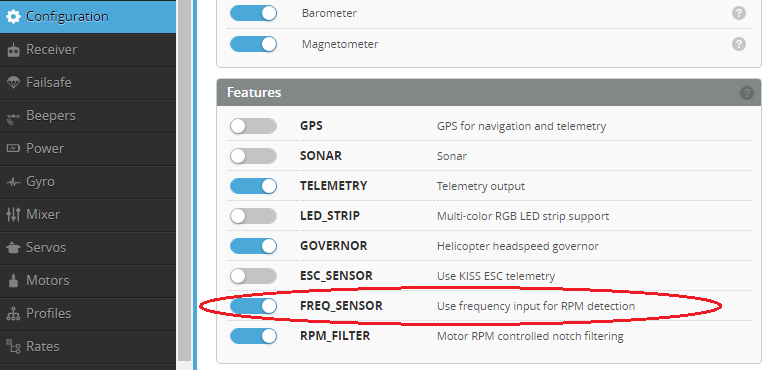
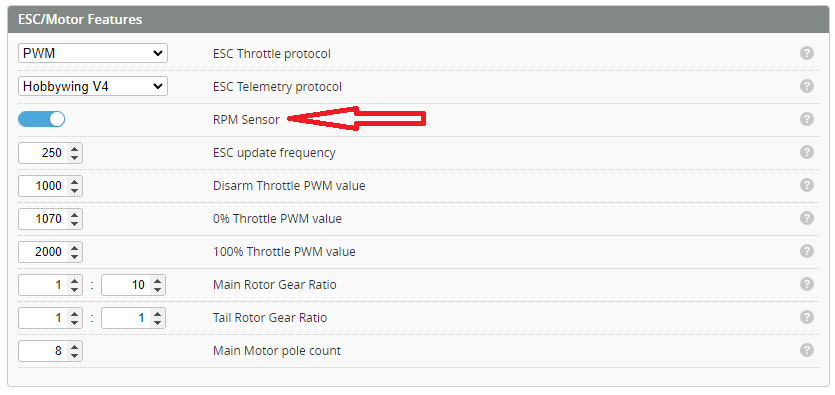
modified:   docs/Tutorial-Setup/Rpm-Measurement.md 	modified:   docs/Tutorial-Setup/img/frequency_2.png

diff --git a/docs/Tutorial-Setup/Rpm-Measurement.md b/docs/Tutorial-Setup/Rpm-Measurement.md
@@ -53,7 +53,7 @@ timer A09 AF1 # Freq - pin A09: TIM1 CH2 (AF1)
 dma pin A09 0 # Freq - 0: DMA2 Stream 6 Channel 0
 ```
 
-Then the frequency sensor can be turned ON with the feature flag located on the ***Configuration*** tab.
+Then the frequency sensor can be turned ON with the feature flag located on the [***Motors***](./Motor-and-Esc.md#pwm-protocol) tab.
 
 ![frequency_2](./img/frequency_2.png)
 
@@ -72,4 +72,4 @@ Bidirectional DSHOT is fully supported from firmware version 32.7.0 onward. ESCs
 BLHeli_S ESCs do not support Bidirectional DSHOT. In order to access this functionality with a BLheli_S ESC the firmware must be upgraded to Bluejay. Bluejay is an open source firmware for BLheli_S ESCs which supports Bidirectional DSHOT, see [BlueJay](https://github.com/mathiasvr/bluejay). This firmware has been used successfully for several Rotorflight builds. Bluejay is capable of flashing individual settings to each ESC (tail and main) which is important when using an all in one (AIO) board. Bluejay v0.15 and later also supports disabling *damped light* (regenerative breaking), a must if your helicopter doesn't have a one way bearing. For example, a K110 will yaw/spin rapidly on throttle hold if *damped light* is enabled. Please follow the [Blheli_S to Bluejay](../Tutorial-Walkthroughs/Blheli_s-to-Bluejay.md) walkthrough
 
 ## More information
-More details on Bidirectional DSHOT and RPM filtering at [betaflight](https://github.com/betaflight/betaflight/wiki/Bidirectional-DSHOT-and-RPM-Filter).
+More details on Bidirectional DSHOT and RPM filtering at [Betaflight](https://betaflight.com/docs/wiki/guides/current/DSHOT-RPM-Filtering).
